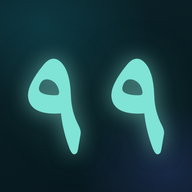
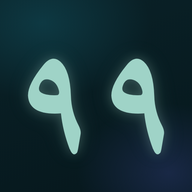
Ship: полноценный экран настроек, смягчённый цвет логотипа
Синхронизация с 99ism-app: настройки — отдельный экран (был попап),
раздел «Тема», смягчённый цвет ٩٩ (сейфом вместо неонового мятного).

Claude-Session: https://claude.ai/code/session_01QrB7TZoNwTthyH4yLu3pSm

Changed region(s): [[0.5625, 0.2812, 0.875, 0.8125], [0.125, 0.3125, 0.4375, 0.8125]]

diff --git a/index.html b/index.html
@@ -98,6 +98,8 @@ try{
   --accent-rgb: 21,128,111;
   --accent-tint: rgba(21,128,111,0.10);
   --accent-tint-soft: rgba(21,128,111,0.03);
+  --brand: #3B8C79;
+  --brand-halo: 0 2px 18px rgba(59,140,121,0.14);
   --ease: cubic-bezier(.22,1,.36,1);
 }
 :root[data-theme="dark"]{
@@ -132,6 +134,8 @@ try{
   --accent-rgb: 127,227,214;
   --accent-tint: rgba(127,227,214,0.13);
   --accent-tint-soft: rgba(127,227,214,0.03);
+  --brand: #9FD3C7;
+  --brand-halo: 0 0 30px rgba(159,211,199,0.24), 0 0 64px rgba(159,211,199,0.10);
 }
 *{box-sizing:border-box; -webkit-tap-highlight-color:transparent;}
 html,body{ height:100%; height:-webkit-fill-available; }
@@ -179,7 +183,7 @@ body{
   font-family:var(--font-display); font-size:10px; font-weight:500;
   letter-spacing:.3em; text-transform:uppercase; color:var(--gold);
 }
-.brand-mark{ font-family:'Amiri',var(--font-ar); font-weight:700; font-size:26px; line-height:1; direction:rtl; flex-shrink:0; color:var(--gold); }
+.brand-mark{ font-family:'Amiri',var(--font-ar); font-weight:700; font-size:26px; line-height:1; direction:rtl; flex-shrink:0; color:var(--brand); }
 .icon-btn{
   width:38px;height:38px; border-radius:50%; border:1px solid var(--line);
   background:var(--glass); color:var(--ivory); display:flex; align-items:center; justify-content:center;
@@ -301,9 +305,9 @@ body{
 .hero{ display:flex; flex-direction:column; align-items:center; text-align:center; padding-top:6px;}
 /* «Дыхание» — герб медленно расширяется и сжимается, как вдох-выдох. */
 .hero-star{
-  display:block; width:auto; margin:8px auto 2px; color:var(--gold);
+  display:block; width:auto; margin:8px auto 2px; color:var(--brand);
   font-family:'Amiri',var(--font-ar); font-weight:700; font-size:150px; line-height:1; direction:rtl;
-  text-shadow:var(--ink-halo); animation: breathe 7s ease-in-out infinite;
+  text-shadow:var(--brand-halo); animation: breathe 7s ease-in-out infinite;
 }
 @keyframes breathe{ 0%,100%{ transform:scale(1); opacity:.82; } 50%{ transform:scale(1.06); opacity:1; } }
 .eyebrow{
@@ -382,6 +386,18 @@ body{
 .search-wrap svg{ position:absolute; left:36px; top:50%; transform:translateY(-50%); width:16px;height:16px; color:var(--ivory-dim);}
 .section-title{ font-family:var(--font-display); font-size:22px; font-weight:200; padding:2px 0 14px; color:var(--ivory);}
 .section-desc{ font-size:12.5px; color:var(--ivory-dim); padding:0 0 14px; margin-top:-10px; }
+
+/* ---------- SETTINGS ---------- */
+.settings-head{ display:flex; align-items:center; gap:14px; margin-bottom:22px; }
+.theme-picker{ display:flex; gap:8px; margin-bottom:24px; }
+.theme-picker-opt{
+  flex:1; display:flex; flex-direction:column; align-items:center; gap:8px;
+  padding:16px 10px; border-radius:20px; border:1px solid var(--line); background:var(--glass);
+  color:var(--ivory-dim); font-family:var(--font-body); font-size:13px; font-weight:500; cursor:pointer;
+  transition: all .2s var(--ease);
+}
+.theme-picker-opt svg{ width:20px; height:20px; }
+.theme-picker-opt.active{ border-color:var(--gold); color:var(--gold); background:var(--accent-tint); }
 
 .segmented-wrap{ flex-shrink:0; padding:0 20px 14px; }
 .segmented{ display:flex; gap:4px; border:1px solid var(--line); border-radius:100px; padding:4px; background:var(--glass); backdrop-filter:blur(12px); overflow:hidden; }
@@ -944,66 +960,9 @@ body{
         <svg class="icon-sun" viewBox="0 0 24 24" fill="none"><circle cx="12" cy="12" r="4.5" stroke="currentColor" stroke-width="1.6"/><path d="M12 2.5v2.5M12 19v2.5M4.2 4.2l1.8 1.8M18 18l1.8 1.8M2.5 12H5M19 12h2.5M4.2 19.8L6 18M18 6l1.8-1.8" stroke="currentColor" stroke-width="1.6" stroke-linecap="round"/></svg>
         <svg class="icon-moon" viewBox="0 0 24 24" fill="none"><path d="M20.2 13.1A8.2 8.2 0 1110.9 3.8a6.3 6.3 0 009.3 9.3z" stroke="currentColor" stroke-width="1.6" stroke-linejoin="round" stroke-linecap="round"/></svg>
       </button>
-      <button class="icon-btn" id="profileMenuBtn" title="Настройки" style="display:none;">
+      <button class="icon-btn" id="profileMenuBtn" title="Настройки" data-nav="settings" style="display:none;">
         <svg viewBox="0 0 24 24" fill="none"><path d="M12 15a3 3 0 100-6 3 3 0 000 6z" stroke="currentColor" stroke-width="1.5"/><path d="M19.4 15a1.65 1.65 0 00.33 1.82l.06.06a2 2 0 11-2.83 2.83l-.06-.06a1.65 1.65 0 00-1.82-.33 1.65 1.65 0 00-1 1.51V21a2 2 0 01-4 0v-.09a1.65 1.65 0 00-1-1.51 1.65 1.65 0 00-1.82.33l-.06.06a2 2 0 11-2.83-2.83l.06-.06a1.65 1.65 0 00.33-1.82 1.65 1.65 0 00-1.51-1H3a2 2 0 010-4h.09a1.65 1.65 0 001.51-1 1.65 1.65 0 00-.33-1.82l-.06-.06a2 2 0 112.83-2.83l.06.06a1.65 1.65 0 001.82.33H9a1.65 1.65 0 001-1.51V3a2 2 0 014 0v.09a1.65 1.65 0 001 1.51 1.65 1.65 0 001.82-.33l.06-.06a2 2 0 112.83 2.83l-.06.06a1.65 1.65 0 00-.33 1.82V9a1.65 1.65 0 001.51 1H21a2 2 0 010 4h-.09a1.65 1.65 0 00-1.51 1z" stroke="currentColor" stroke-width="1.5" stroke-linecap="round" stroke-linejoin="round"/></svg>
       </button>
-      <div id="profileMenu" style="display:none;position:absolute;top:46px;right:0;background:var(--panel);border:1px solid var(--line);border-radius:12px;padding:8px 0;min-width:220px;box-shadow:0 4px 16px rgba(0,0,0,0.4);z-index:100;">
-
-        <!-- Reminder section (shown only when notifications granted) -->
-        <div id="reminderMenuSection" style="display:none;">
-          <div style="padding:10px 16px 6px;font-size:12px;color:var(--ivory-dim);">⏰ Напоминания об учёбе</div>
-
-          <!-- Frequency picker -->
-          <div id="reminderFreqRow" style="display:flex;gap:6px;padding:0 16px 10px;">
-            <button class="reminder-freq-btn" data-freq="1" style="flex:1;padding:7px 0;border-radius:8px;border:1px solid var(--line);background:var(--panel);color:var(--ivory);font-family:var(--font-body);font-size:13px;cursor:pointer;transition:all .2s;">1×</button>
-            <button class="reminder-freq-btn" data-freq="2" style="flex:1;padding:7px 0;border-radius:8px;border:1px solid var(--line);background:var(--panel);color:var(--ivory);font-family:var(--font-body);font-size:13px;cursor:pointer;transition:all .2s;">2×</button>
-            <button class="reminder-freq-btn" data-freq="3" style="flex:1;padding:7px 0;border-radius:8px;border:1px solid var(--line);background:var(--panel);color:var(--ivory);font-family:var(--font-body);font-size:13px;cursor:pointer;transition:all .2s;">3×</button>
-          </div>
-
-          <!-- Save / active state -->
-          <div style="padding:0 16px 10px;display:flex;gap:6px;align-items:center;">
-            <button id="reminderSaveBtn" style="flex:1;padding:7px 10px;border-radius:8px;border:none;background:var(--gold);color:var(--on-accent);font-family:var(--font-body);font-size:13px;font-weight:600;cursor:pointer;transition:all .2s;">Сохранить</button>
-            <button id="reminderOffBtn" style="display:none;padding:7px 10px;border-radius:8px;border:1px solid var(--rose);background:none;color:var(--rose);font-family:var(--font-body);font-size:13px;cursor:pointer;transition:all .2s;">Выключить</button>
-          </div>
-
-          <!-- Active label -->
-          <div id="reminderActiveLabel" style="display:none;padding:0 16px 10px;font-size:12px;color:var(--gold);"></div>
-
-          <div style="height:1px;background:var(--line);margin:0 0 4px;"></div>
-
-          <div style="padding:10px 16px 6px;font-size:12px;color:var(--ivory-dim);">💾 Данные приложения</div>
-          <div style="padding:0 16px 10px;display:flex;gap:6px;align-items:center;">
-            <button id="exportBackupBtn" style="flex:1;padding:7px 10px;border-radius:8px;border:none;background:var(--gold);color:var(--on-accent);font-family:var(--font-body);font-size:13px;font-weight:600;cursor:pointer;transition:all .2s;">Сохранить (Бэкап)</button>
-            <button id="importBackupBtn" style="flex:1;padding:7px 10px;border-radius:8px;border:1px solid var(--gold);background:none;color:var(--gold);font-family:var(--font-body);font-size:13px;font-weight:600;cursor:pointer;transition:all .2s;">Восстановить</button>
-          </div>
-
-          <div id="volKeySection" style="display:none;">
-            <div style="height:1px;background:var(--line);margin:0 0 4px;"></div>
-            <div style="padding:10px 16px 6px;font-size:12px;color:var(--ivory-dim);">🔊 Кнопки громкости</div>
-            <div style="padding:0 16px 10px;">
-              <div style="font-size:12px;color:var(--ivory-dim);margin-bottom:8px;">Считать зикр кнопками громкости при запущенном плавающем счётчике — работает даже на заблокированном экране, звук не трогает.</div>
-              <button id="volKeyEnableBtn" style="width:100%;padding:7px 10px;border-radius:8px;border:1px solid var(--gold);background:none;color:var(--gold);font-family:var(--font-body);font-size:13px;font-weight:600;cursor:pointer;transition:all .2s;">Включить</button>
-            </div>
-          </div>
-
-          <div style="height:1px;background:var(--line);margin:0 0 4px;"></div>
-
-          <div style="padding:10px 16px 6px;font-size:12px;color:var(--ivory-dim);">📅 Зикр недели</div>
-          <div style="padding:0 16px 10px;display:flex;align-items:center;justify-content:space-between;">
-            <div style="font-size:13px;color:var(--ivory);">Уведомлять о начале</div>
-            <label style="position:relative;display:inline-block;width:40px;height:24px;">
-              <input type="checkbox" id="weeklyNotifToggle" style="opacity:0;width:0;height:0;" checked>
-              <span class="slider" style="position:absolute;cursor:pointer;top:0;left:0;right:0;bottom:0;background-color:var(--fill-3);transition:.4s;border-radius:24px;border:1px solid var(--line);"></span>
-              <span class="slider-knob" style="position:absolute;content:'';height:18px;width:18px;left:2px;bottom:2px;background-color:var(--ivory);transition:.4s;border-radius:50%;"></span>
-            </label>
-          </div>
-          <div style="height:1px;background:var(--line);margin:0 0 4px;"></div>
-        </div>
-
-        <button id="logoutBtn" style="display:block;width:100%;text-align:left;padding:10px 16px;background:none;border:none;color:var(--rose);cursor:pointer;font-family:var(--font-body);font-size:13px;transition:background .2s;">
-          Выход
-        </button>
-      </div>
     </div>
   </div>
 
@@ -1663,6 +1622,66 @@ body{
       </div>
     </section>
 
+    <!-- SETTINGS -->
+    <section class="screen" data-screen="settings">
+      <div class="scroll">
+        <div class="settings-head">
+          <button class="nav-arrow" data-nav="friends" aria-label="Назад"><svg viewBox="0 0 24 24" fill="none"><path d="M15 18l-6-6 6-6" stroke="currentColor" stroke-width="1.8" stroke-linecap="round" stroke-linejoin="round"/></svg></button>
+          <div class="section-title" style="padding:0;">Настройки</div>
+        </div>
+
+        <div class="section-label">Тема</div>
+        <div class="theme-picker" id="themePicker">
+          <button class="theme-picker-opt" data-theme-choice="light">
+            <svg viewBox="0 0 24 24" fill="none"><circle cx="12" cy="12" r="4.5" stroke="currentColor" stroke-width="1.6"/><path d="M12 2.5v2.5M12 19v2.5M4.2 4.2l1.8 1.8M18 18l1.8 1.8M2.5 12H5M19 12h2.5M4.2 19.8L6 18M18 6l1.8-1.8" stroke="currentColor" stroke-width="1.6" stroke-linecap="round"/></svg>
+            День
+          </button>
+          <button class="theme-picker-opt" data-theme-choice="dark">
+            <svg viewBox="0 0 24 24" fill="none"><path d="M20.2 13.1A8.2 8.2 0 1110.9 3.8a6.3 6.3 0 009.3 9.3z" stroke="currentColor" stroke-width="1.6" stroke-linejoin="round" stroke-linecap="round"/></svg>
+            Ночь
+          </button>
+        </div>
+
+        <div id="reminderMenuSection" style="display:none;">
+          <div class="section-label">Напоминания об учёбе</div>
+          <div id="reminderFreqRow" style="display:flex;gap:8px;margin-bottom:12px;">
+            <button class="reminder-freq-btn" data-freq="1" style="flex:1;padding:12px 0;border-radius:100px;border:1px solid var(--line);background:var(--glass);color:var(--ivory);font-family:var(--font-body);font-size:14px;cursor:pointer;transition:all .2s;">1×</button>
+            <button class="reminder-freq-btn" data-freq="2" style="flex:1;padding:12px 0;border-radius:100px;border:1px solid var(--line);background:var(--glass);color:var(--ivory);font-family:var(--font-body);font-size:14px;cursor:pointer;transition:all .2s;">2×</button>
+            <button class="reminder-freq-btn" data-freq="3" style="flex:1;padding:12px 0;border-radius:100px;border:1px solid var(--line);background:var(--glass);color:var(--ivory);font-family:var(--font-body);font-size:14px;cursor:pointer;transition:all .2s;">3×</button>
+          </div>
+          <div style="display:flex;gap:8px;align-items:center;margin-bottom:8px;">
+            <button id="reminderSaveBtn" class="btn btn-primary" style="flex:1;">Сохранить</button>
+            <button id="reminderOffBtn" class="btn btn-ghost" style="display:none;flex:1;color:var(--rose);border-color:var(--rose);">Выключить</button>
+          </div>
+          <div id="reminderActiveLabel" style="display:none;font-size:12.5px;color:var(--gold);margin-bottom:20px;"></div>
+        </div>
+
+        <div class="section-label">Данные приложения</div>
+        <div style="display:flex;gap:8px;margin-bottom:20px;">
+          <button id="exportBackupBtn" class="btn btn-primary" style="flex:1;">Сохранить (Бэкап)</button>
+          <button id="importBackupBtn" class="btn btn-ghost" style="flex:1;">Восстановить</button>
+        </div>
+
+        <div id="volKeySection" style="display:none;">
+          <div class="section-label">Кнопки громкости</div>
+          <p class="section-desc" style="margin-top:0;">Считать зикр кнопками громкости при запущенном плавающем счётчике — работает даже на заблокированном экране, звук не трогает.</p>
+          <button id="volKeyEnableBtn" class="btn btn-ghost" style="width:100%;margin-bottom:20px;">Включить</button>
+        </div>
+
+        <div class="section-label">Зикр недели</div>
+        <div style="display:flex;align-items:center;justify-content:space-between;padding:14px 0;border-top:1px solid var(--line);border-bottom:1px solid var(--line);margin-bottom:24px;">
+          <div style="font-size:14px;color:var(--ivory);">Уведомлять о начале</div>
+          <label style="position:relative;display:inline-block;width:40px;height:24px;flex-shrink:0;">
+            <input type="checkbox" id="weeklyNotifToggle" style="opacity:0;width:0;height:0;" checked>
+            <span class="slider" style="position:absolute;cursor:pointer;top:0;left:0;right:0;bottom:0;background-color:var(--fill-3);transition:.4s;border-radius:24px;border:1px solid var(--line);"></span>
+            <span class="slider-knob" style="position:absolute;content:'';height:18px;width:18px;left:2px;bottom:2px;background-color:var(--ivory);transition:.4s;border-radius:50%;"></span>
+          </label>
+        </div>
+
+        <button id="logoutBtn" class="btn btn-ghost" style="width:100%;color:var(--rose);border-color:var(--rose);margin-bottom:16px;">Выход</button>
+      </div>
+    </section>
+
   </div>
 
   <div class="sheet-backdrop" id="friendPickerBackdrop"></div>
@@ -1940,7 +1959,7 @@ window.onBackupRestored = function(jsonString) {
       renderCards();
       renderStats();
       showToast('Прогресс успешно восстановлен!');
-      document.getElementById('profileMenu').style.display = 'none';
+      go('friends');
     } else {
       showToast('Неверный формат резервной копии');
     }
@@ -5486,21 +5505,13 @@ if(volKeyEnableBtnEl) volKeyEnableBtnEl.addEventListener('click', ()=>{
   }
 });
 
-document.getElementById('profileMenuBtn').addEventListener('click', (e)=>{
-  e.stopPropagation();
-  const menu = document.getElementById('profileMenu');
-  const willShow = menu.style.display === 'none';
-  menu.style.display = willShow ? 'block' : 'none';
-  if(willShow) updateVolKeyUI();
-});
+// Settings is now a full screen (data-nav="settings" on the gear button
+// already navigates it via the generic [data-nav] wiring) — this just
+// refreshes the volume-key button's state each time it's opened.
+document.getElementById('profileMenuBtn').addEventListener('click', updateVolKeyUI);
 
 document.addEventListener('click', ()=>{
-  document.getElementById('profileMenu').style.display = 'none';
   document.querySelectorAll('.friend-menu').forEach(m => m.style.display = 'none');
-});
-
-document.getElementById('profileMenu').addEventListener('click', (e)=>{
-  e.stopPropagation();
 });
 
 document.getElementById('copyUsernameBtn').addEventListener('click', async ()=>{
@@ -6847,16 +6858,32 @@ function applyThemeMeta(){
   if(meta) meta.setAttribute('content', isDark ? '#06171C' : '#F3F7F6');
 }
 applyThemeMeta();
-document.getElementById('themeToggleBtn').addEventListener('click', ()=>{
-  const toDark = document.documentElement.getAttribute('data-theme') !== 'dark';
+
+// Shared by the home-screen sun/moon icon and the picker in Settings, so
+// changing the theme from either place keeps both in sync.
+function updateThemePickerUI(){
+  const isDark = document.documentElement.getAttribute('data-theme') === 'dark';
+  document.querySelectorAll('.theme-picker-opt').forEach(btn=>{
+    btn.classList.toggle('active', btn.dataset.themeChoice === (isDark ? 'dark' : 'light'));
+  });
+}
+function setTheme(toDark){
   const apply = () => {
     if(toDark) document.documentElement.setAttribute('data-theme', 'dark');
     else document.documentElement.removeAttribute('data-theme');
     try{ localStorage.setItem('themePref', toDark ? 'dark' : 'light'); }catch(e){}
     applyThemeMeta();
+    updateThemePickerUI();
   };
   if(document.startViewTransition){ document.startViewTransition(apply); }
   else { apply(); }
+}
+updateThemePickerUI();
+document.querySelectorAll('.theme-picker-opt').forEach(btn=>{
+  btn.addEventListener('click', ()=> setTheme(btn.dataset.themeChoice === 'dark'));
+});
+document.getElementById('themeToggleBtn').addEventListener('click', ()=>{
+  setTheme(document.documentElement.getAttribute('data-theme') !== 'dark');
 });
 updateSettingsGearVisibility();
 
